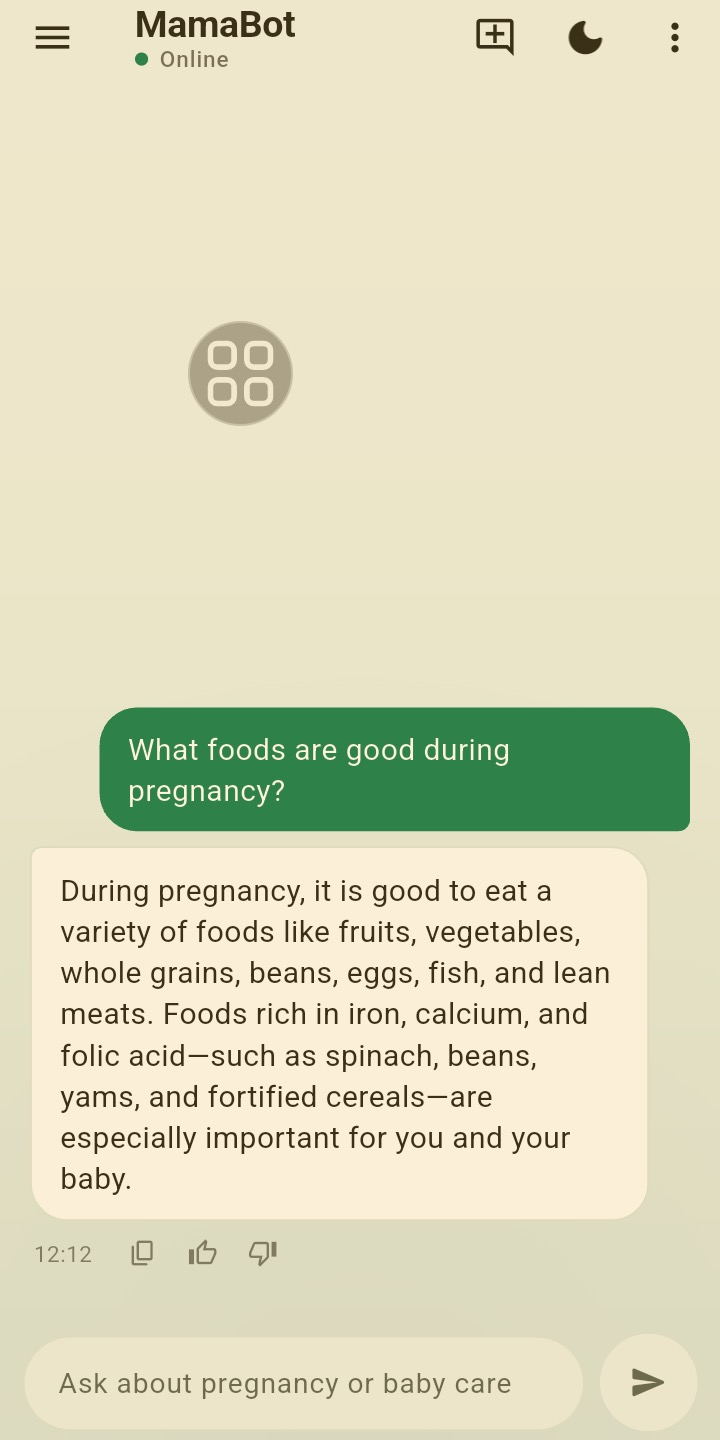
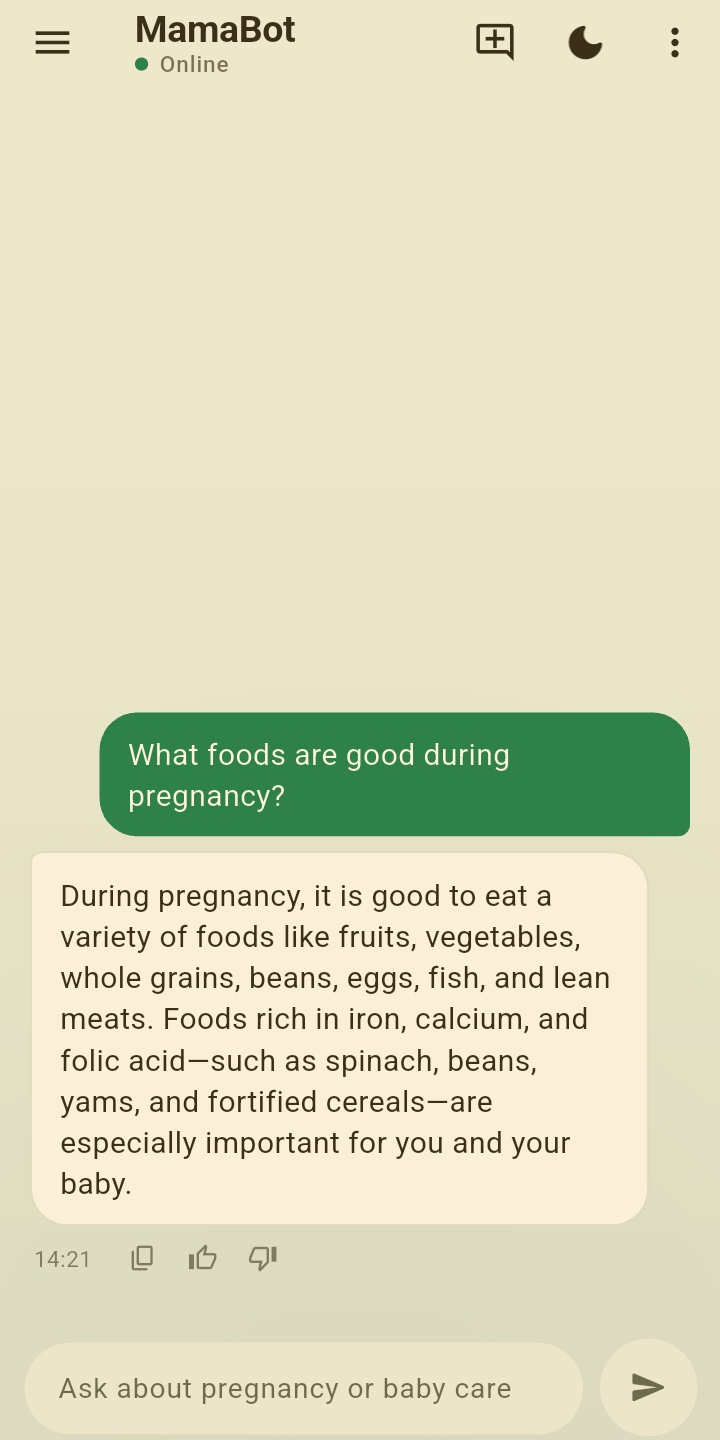
Prepare Play Store screenshots and account deletion flow

diff --git a/lib/features/settings/presentation/pages/settings_page.dart b/lib/features/settings/presentation/pages/settings_page.dart
@@ -43,57 +43,10 @@ class SettingsPage extends StatelessWidget {
 
   Future<void> _confirmDeleteAccount(BuildContext context) async {
     final authBloc = context.read<AuthBloc>();
-    final confirmationController = TextEditingController();
     final deleted = await showDialog<bool>(
       context: context,
-      builder: (ctx) => StatefulBuilder(
-        builder: (ctx, setDialogState) => AlertDialog(
-          title: const Text('Are you sure?'),
-          content: Column(
-            mainAxisSize: MainAxisSize.min,
-            crossAxisAlignment: CrossAxisAlignment.start,
-            children: [
-              const Text(
-                'This will permanently delete your account and remove your '
-                'saved chats from this phone. You will be signed out. This '
-                'action cannot be undone.',
-              ),
-              const SizedBox(height: 16),
-              const Text('Type “Delete Account” to continue.'),
-              const SizedBox(height: 8),
-              TextField(
-                controller: confirmationController,
-                autofocus: true,
-                textCapitalization: TextCapitalization.words,
-                decoration: const InputDecoration(
-                  border: OutlineInputBorder(),
-                  hintText: 'Delete Account',
-                ),
-                onChanged: (_) => setDialogState(() {}),
-              ),
-            ],
-          ),
-          actions: [
-            TextButton(
-              onPressed: () => Navigator.pop(ctx, false),
-              child: const Text('Cancel'),
-            ),
-            FilledButton(
-              style: FilledButton.styleFrom(
-                backgroundColor: Theme.of(ctx).colorScheme.error,
-                foregroundColor: Theme.of(ctx).colorScheme.onError,
-                minimumSize: const Size(120, 44),
-              ),
-              onPressed: confirmationController.text.trim() == 'Delete Account'
-                  ? () => Navigator.pop(ctx, true)
-                  : null,
-              child: const Text('Delete account'),
-            ),
-          ],
-        ),
-      ),
+      builder: (_) => const _DeleteAccountConfirmationDialog(),
     );
-    confirmationController.dispose();
     if (deleted == true) authBloc.add(AccountDeletionRequested());
   }
 
@@ -365,6 +318,74 @@ class SettingsPage extends StatelessWidget {
     final source = name.trim().isNotEmpty ? name : email.trim();
     if (source.isEmpty) return 'M';
     return String.fromCharCode(source.runes.first).toUpperCase();
+  }
+}
+
+class _DeleteAccountConfirmationDialog extends StatefulWidget {
+  const _DeleteAccountConfirmationDialog();
+
+  @override
+  State<_DeleteAccountConfirmationDialog> createState() =>
+      _DeleteAccountConfirmationDialogState();
+}
+
+class _DeleteAccountConfirmationDialogState
+    extends State<_DeleteAccountConfirmationDialog> {
+  final _confirmationController = TextEditingController();
+
+  @override
+  void dispose() {
+    _confirmationController.dispose();
+    super.dispose();
+  }
+
+  @override
+  Widget build(BuildContext context) {
+    return AlertDialog(
+      scrollable: true,
+      title: const Text('Are you sure?'),
+      content: Column(
+        mainAxisSize: MainAxisSize.min,
+        crossAxisAlignment: CrossAxisAlignment.start,
+        children: [
+          const Text(
+            'This will permanently delete your account and remove your '
+            'saved chats from this phone. You will be signed out. This '
+            'action cannot be undone.',
+          ),
+          const SizedBox(height: 16),
+          const Text('Type “Delete Account” to continue.'),
+          const SizedBox(height: 8),
+          TextField(
+            controller: _confirmationController,
+            autofocus: true,
+            textCapitalization: TextCapitalization.words,
+            decoration: const InputDecoration(
+              border: OutlineInputBorder(),
+              hintText: 'Delete Account',
+            ),
+            onChanged: (_) => setState(() {}),
+          ),
+        ],
+      ),
+      actions: [
+        TextButton(
+          onPressed: () => Navigator.pop(context, false),
+          child: const Text('Cancel'),
+        ),
+        FilledButton(
+          style: FilledButton.styleFrom(
+            backgroundColor: Theme.of(context).colorScheme.error,
+            foregroundColor: Theme.of(context).colorScheme.onError,
+            minimumSize: const Size(120, 44),
+          ),
+          onPressed: _confirmationController.text.trim() == 'Delete Account'
+              ? () => Navigator.pop(context, true)
+              : null,
+          child: const Text('Delete account'),
+        ),
+      ],
+    );
   }
 }
 

diff --git a/lib/features/onboarding/presentation/onboarding_page.dart b/lib/features/onboarding/presentation/onboarding_page.dart
@@ -49,7 +49,7 @@ class _OnboardingPageState extends State<OnboardingPage> {
       imageAlignment: Alignment(0, -0.12),
     ),
     OnboardingItem(
-      imageAsset: 'assets/images/onboarding/child_care.png',
+      imageAsset: 'assets/images/onboarding/child_care.jpg',
       eyebrow: 'Care for your child',
       iconData: Icons.child_care_rounded,
       title: 'A healthier start\nfor every child.',
